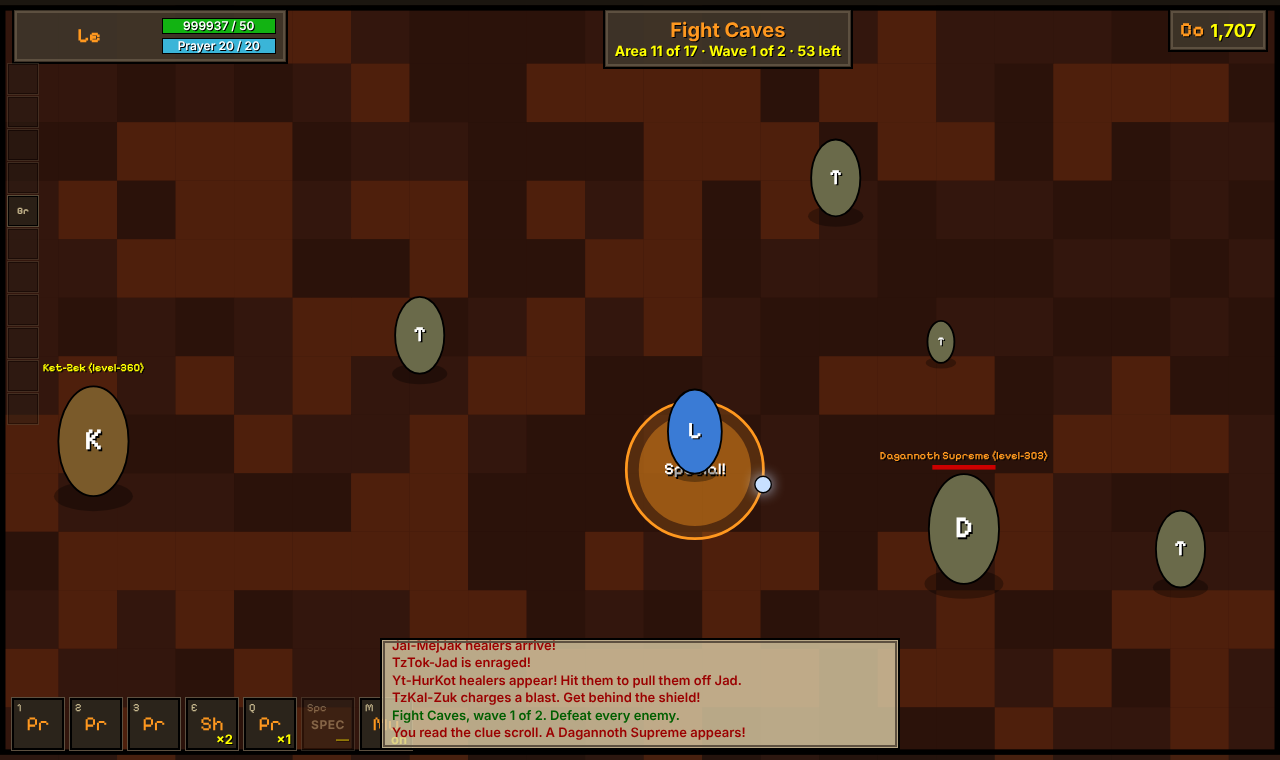
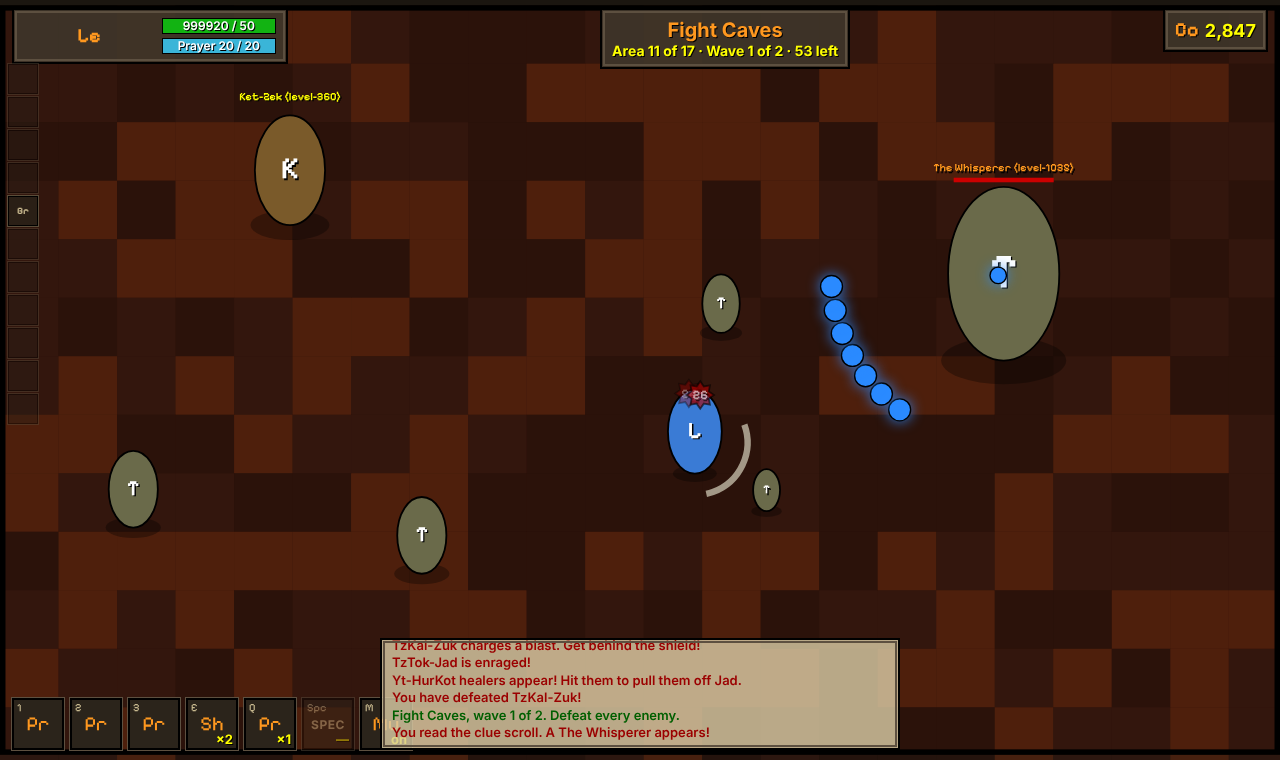
Big bosses spawn fully on screen (Wardens, Zuk, Olm, Vorkath and others)
Boss spawn height and the enemy edge clamp now account for sprite size;
Zuk's glyph moves with him. HUD shows 'Boss fight' instead of a
wrapping boss name.

Claude-Session: https://claude.ai/code/session_01QP3hDncgVMuDYSY9UCTwho

diff --git a/js/game.js b/js/game.js
@@ -255,7 +255,8 @@ function startStage() {
   spawnT = 0.6;
   if (isBoss) {
     const def = MONSTERS[area.boss];
-    const b = spawnMonster(area.boss, WORLD_W / 2, def.spd === 0 ? 210 : 230);
+    // feet low enough that the whole sprite is on screen
+    const b = spawnMonster(area.boss, WORLD_W / 2, Math.max(230, 140 + def.size));
     bossAlive = b;
     chat(`${area.name}: ${def.name} (level-${def.lvl}) appears!`, 'r');
     bossIntro(b);
@@ -875,7 +876,7 @@ function updateEnemies(dt) {
       }
     }
   }
-  for (const e of enemies) { e.x = clamp(e.x, 10, WORLD_W - 10); e.y = clamp(e.y, 90, WORLD_H - 10); }
+  for (const e of enemies) { e.x = clamp(e.x, 10, WORLD_W - 10); e.y = clamp(e.y, Math.min(WORLD_H - 40, 100 + e.d.size * 0.9), WORLD_H - 10); }
   enemies = enemies.filter((e) => !e.dead);
 }
 
@@ -1199,7 +1200,7 @@ function bossAI(e, dt) {
     }
   } else if (k === 'zuk') {
     // TzKal-Zuk: hide behind the moving shield when he fires, or take a huge hit
-    if (!e.ai.shield) e.ai.shield = { x: WORLD_W / 2, dir: 1 };
+    if (!e.ai.shield) e.ai.shield = { x: WORLD_W / 2, dir: 1, y: Math.min(WORLD_H - 160, e.y + 80) };
     const sh = e.ai.shield;
     sh.x += sh.dir * 120 * dt;
     if (sh.x < 220 || sh.x > WORLD_W - 220) sh.dir *= -1;
@@ -1211,9 +1212,9 @@ function bossAI(e, dt) {
     if (e.ai.blast > 0) {
       e.ai.blast -= dt;
       if (e.ai.blast <= 0) {
-        const safe = Math.abs(p.x - sh.x) < 85 && p.y > 300;
+        const safe = Math.abs(p.x - sh.x) < 85 && p.y > sh.y + 13;
         fx.push({ kind: 'beam', x: e.x, y: e.y - 60, tx: p.x, ty: p.y - 30, t: 0.3, max: 0.3, color: safe ? '#888' : '#ff3a1a' });
-        if (safe) burst(sh.x, 300, '#ffb040', 20); else hurtPlayer(75, 'magic', { pure: true });
+        if (safe) burst(sh.x, sh.y + 13, '#ffb040', 20); else hurtPlayer(75, 'magic', { pure: true });
       }
     }
     if (!e.ai.jad && hpf < 0.6) { e.ai.jad = true; const j = spawnMonster('jad', 200, 300); j.summoned = true; j.hp = j.maxHp = 2500; chat('TzKal-Zuk summons Jal-TokJad!', 'r'); }
@@ -1583,8 +1584,8 @@ function draw() {
   if (bossAlive && bossAlive.d.boss === 'zuk' && bossAlive.ai.shield) {
     const sh = bossAlive.ai.shield;
     ctx.fillStyle = '#5a3a1a'; ctx.strokeStyle = '#ffb040'; ctx.lineWidth = 3;
-    ctx.fillRect(sh.x - 85, 280, 170, 26); ctx.strokeRect(sh.x - 85, 280, 170, 26);
-    text('Ancestral Glyph', sh.x, 293, 13, '#ffb040');
+    ctx.fillRect(sh.x - 85, sh.y, 170, 26); ctx.strokeRect(sh.x - 85, sh.y, 170, 26);
+    text('Ancestral Glyph', sh.x, sh.y + 13, 13, '#ffb040');
   }
 
   for (const s of shots) {
@@ -1803,7 +1804,7 @@ function drawHud() {
   $('ppBar').lastElementChild.textContent = `Prayer ${Math.ceil(p.pp)} / ${st.maxPp}`;
   $('waveName').textContent = area.name;
   const left = enemies.length + Math.max(0, isBoss ? 0 : toSpawn);
-  $('waveSub').textContent = `Area ${areaIndex() + 1} of ${AREAS.length} · ` + (isBoss ? `Boss: ${MONSTERS[area.boss].name}` : `Wave ${subIndex() + 1} of ${WAVES_PER_AREA} · ${left} left`);
+  $('waveSub').textContent = `Area ${areaIndex() + 1} of ${AREAS.length} · ` + (isBoss ? 'Boss fight' : `Wave ${subIndex() + 1} of ${WAVES_PER_AREA} · ${left} left`);
   $('goldTxt').textContent = run.gold.toLocaleString();
   drawGearBar();
   $('sharkN').textContent = '×' + run.inv.shark;
